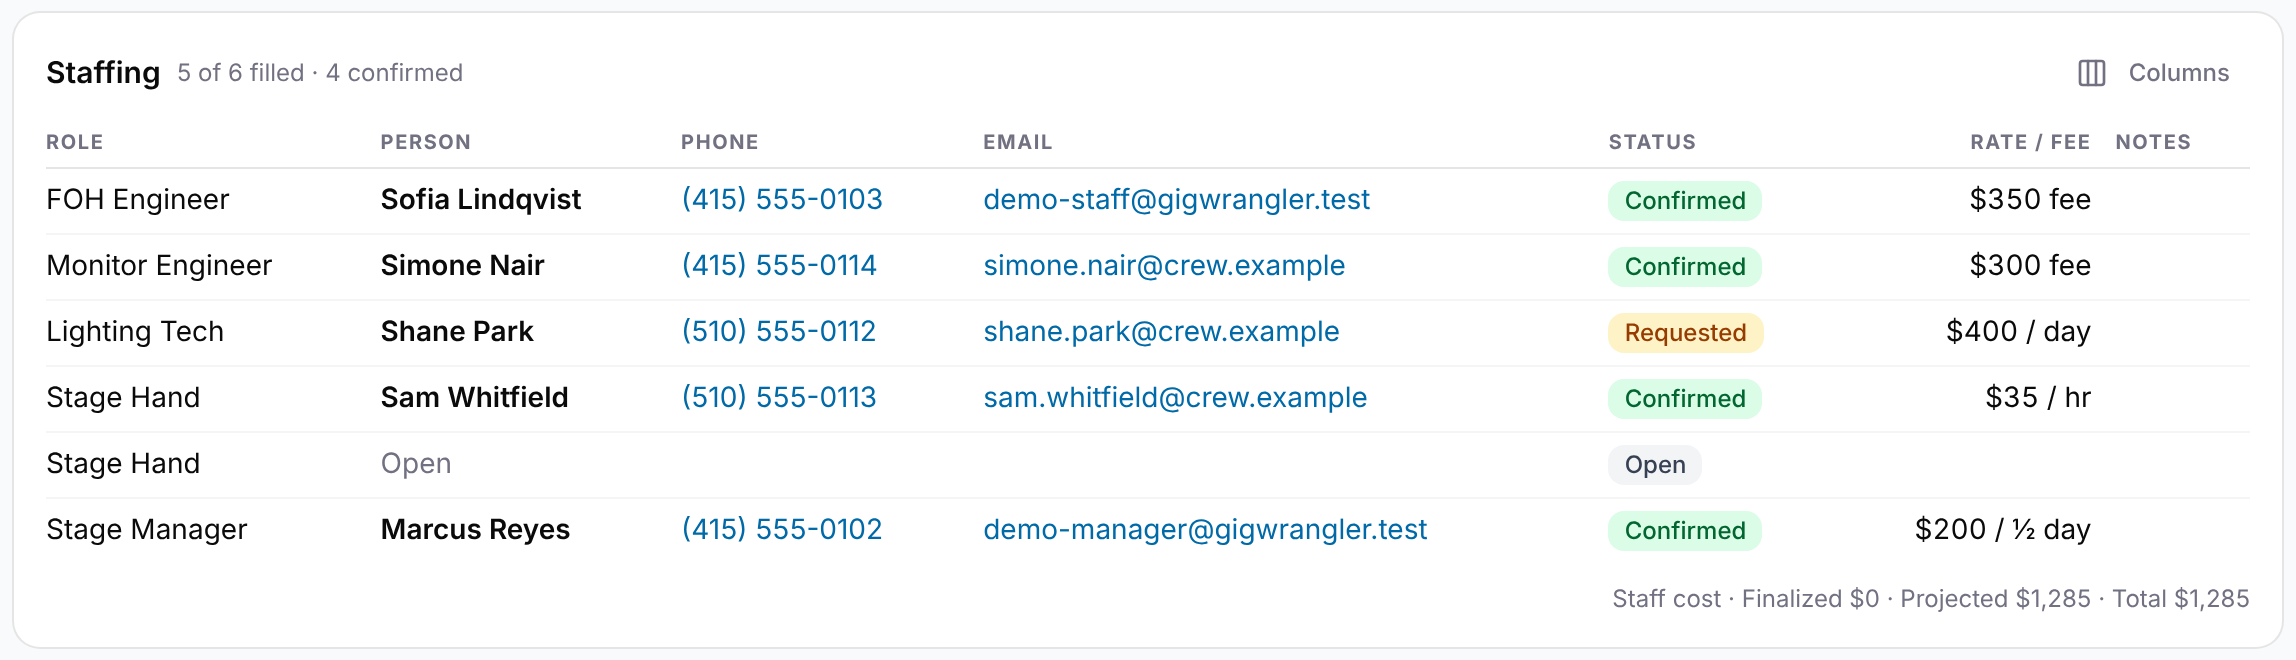
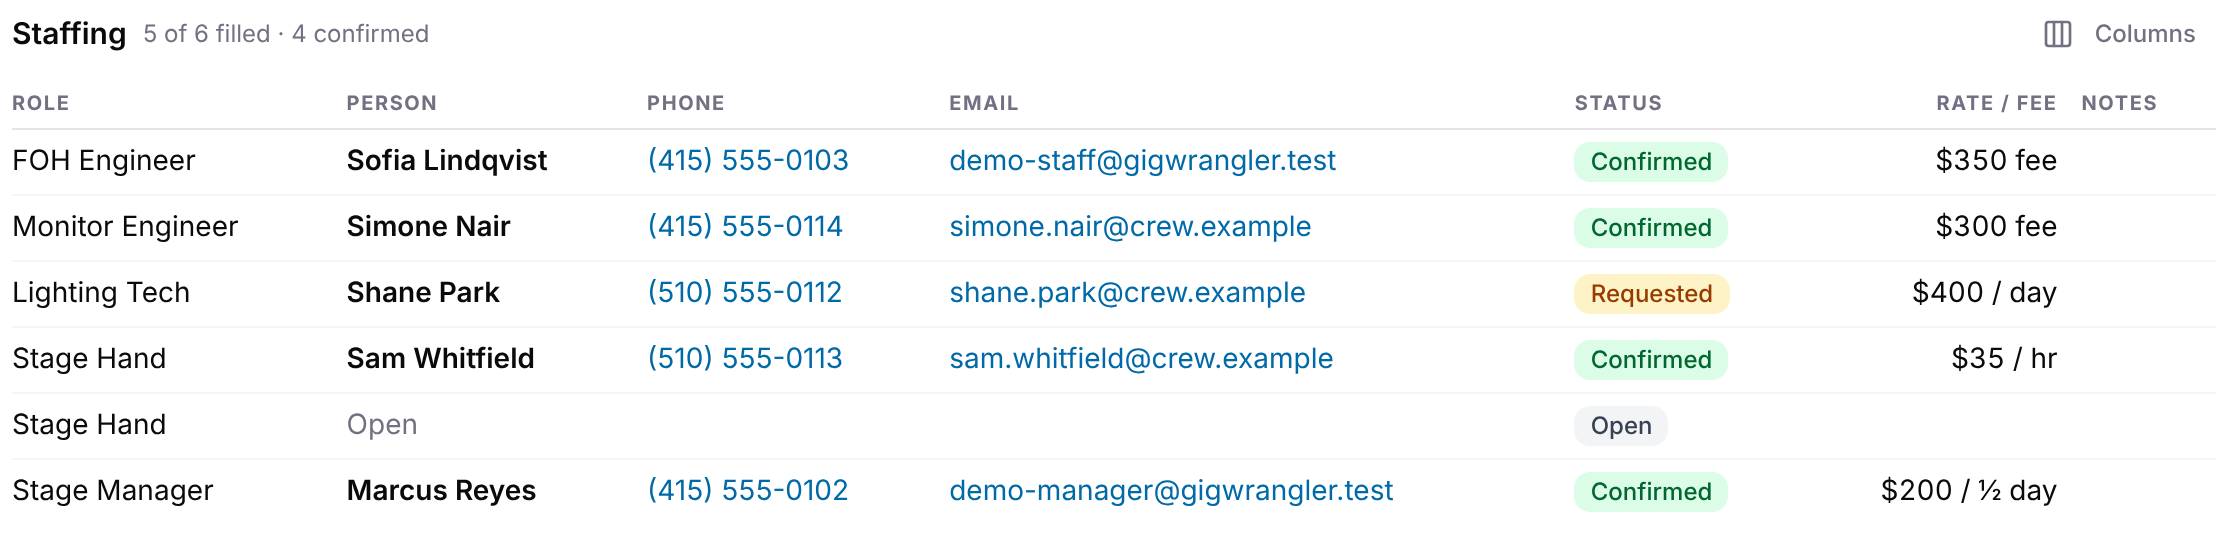
User guide: projected staff cost estimates (#213, PR #218)
- Staffing: Projected now estimates each booked rate from the gig (hours
  start to end to the quarter hour, gig days, one half day per day), with
  an estimate line per rate; finalizing still uses the units entered.
- A gig's money: Projected staff costs show the estimate, also used in
  staff booked, the print sheet and Gig Accounting.
- Retook both staffing shots; the Staffing card shot stops above its Staff
  cost line, which shows "$1,582.5" (#219).

Claude-Session: https://claude.ai/code/session_0118YwkJXDrQDMYNEuMW5wT3

diff --git a/website/docs/src/content/docs/gigs/staffing-and-participants.md b/website/docs/src/content/docs/gigs/staffing-and-participants.md
@@ -38,7 +38,7 @@ Each row in a slot is one person.
 
 A row with no person selected isn't saved. If you lower **Required:**, GigWrangler removes open rows first and keeps the people you've assigned.
 
-![The Staff Assignments card in edit mode: slots for FOH Engineer, Monitor Engineer, Lighting Tech, Stage Hand (two required, one open) and Stage Manager, each person with a status and pay: fees for FOH and monitors, and rates per day, per hour and per half day for the others, then the Total Staff Cost footer](../../../assets/screenshots/gigs/staffing-assignments.png)
+![The Staff Assignments card in edit mode: slots for FOH Engineer, Monitor Engineer, Lighting Tech, Stage Hand (two required, one open) and Stage Manager, each person with a status and pay: fees for FOH and monitors, and rates per day, per hour and per half day for the others, then the Total Staff Cost footer with an estimate line for each booked rate](../../../assets/screenshots/gigs/staffing-assignments.png)
 
 ## Finalizing completed work
 
@@ -55,17 +55,26 @@ Finalizing adds a money-out entry for the gig (category Contract labor, descript
 The footer shows **Total Staff Cost** in three parts:
 
 - **Finalized**: finalized assignments (rate times units, or the fee).
-- **Projected**: **Confirmed** and **Requested** assignments not yet finalized. A rate counts as one of its unit until it's finalized.
-<!-- TODO: #213 — projected rates count one unit (one hour for $35 / hr). Update once Cameron picks a fix. -->
+- **Projected**: **Confirmed** and **Requested** assignments not yet finalized. A fee counts in full. A rate is estimated from the gig (see below).
 - **Total**: the two added together.
+
+Under the totals, each booked rate shows how its estimate was reached, such as "Stage Hand · Sam Whitfield: est. 9.5 hr × $35.00 / hr = $332.50". GigWrangler estimates:
+
+- **/ hr:** the hours from the gig's start to its end, to the nearest quarter hour. If the gig has no end time, or no times at all, it counts 1 hour and says so: "1 hr (no end time)" or "1 hr (no times)".
+- **/ day:** the gig's days, in the gig's time zone. A gig that ends before 6 AM doesn't count the extra day.
+- **/ ½ day:** one half day per gig day.
+
+The estimate is only a projection. When you finalize, you enter the units actually worked, and the cost becomes the rate times that number.
 
 ## Viewing staffing
 
 Everyone in your organization who can open the gig sees a read-only **Staffing** card, headed with a summary such as "3 of 4 filled · 2 confirmed". Each row shows the role, the person (or **Open**), their phone and email, a status badge and any notes. Use **Columns** to hide the ones you don't need; the choice is remembered in this browser.
 
-The **Rate / Fee** column shows a rate with its unit, such as "$400 / day", and a fee as "$350 fee". A **Staff cost** line under the table gives the finalized, projected and total amounts. On the printed financials page, **Staff costs** shows how each rate's amount was reached, such as "3 days × $400 / day". **Rate / Fee** and the staff cost line are for Admins and Managers only. Staff and Viewers don't see pay.
+The **Rate / Fee** column shows a rate with its unit, such as "$400 / day", and a fee as "$350 fee". A **Staff cost** line under the table gives the finalized, projected and total amounts. On the printed financials page, **Staff costs** shows how each rate's amount was reached, such as "3 days × $400 / day".
+<!-- TODO: #219 — the print's Staff costs rows still count an unfinalized rate as one unit. --> **Rate / Fee** and the staff cost line are for Admins and Managers only. Staff and Viewers don't see pay.
 
-![The read-only Staffing card: "5 of 6 filled · 4 confirmed", each role with the person, phone, email, status and pay, such as $350 fee, $400 / day, $35 / hr and $200 / ½ day, an open Stage Hand place, and the Staff cost line](../../../assets/screenshots/gigs/staffing-view-card.png)
+![The read-only Staffing card: "5 of 6 filled · 4 confirmed", each role with the person, phone, email, status and pay, such as $350 fee, $400 / day, $35 / hr and $200 / ½ day, and an open Stage Hand place](../../../assets/screenshots/gigs/staffing-view-card.png)
+<!-- TODO: #219 — retake with the Staff cost line once it shows two decimals. -->
 
 ## Related
 

diff --git a/website/docs/src/content/docs/financials/gig-expenses.md b/website/docs/src/content/docs/financials/gig-expenses.md
@@ -69,7 +69,7 @@ The **…** menu on any row offers **Edit**, **Set stage** and **Remove**.
 
 ## Staff pay
 
-Staff booked on the gig show under **Projected staff costs** until you finalize them in the gig's staffing section (**Finalize Assignment** or **Finalize All**). A fee shows in full. A rate counts as one of its unit (one hour, day or half day) until it's finalized.
+Staff booked on the gig show under **Projected staff costs** until you finalize them in the gig's staffing section (**Finalize Assignment** or **Finalize All**). A fee shows in full. A rate shows an estimate from the gig's times, such as "est. 9.5 hr × $35.00 / hr = $332.50": hours from start to end for an hourly rate, the gig's days for a day rate, and one per gig day for a half-day rate. The same estimate is in **staff booked** at the top of the tab, on the printed sheet and in [Gig Accounting](/financials/gig-accounting/).
 
 - **Finalizing** adds the pay to money out as **Owed**, labelled "Labor: {role}" and marked **Staff**.
 - **A rate** asks how many of its unit were worked (hours, days or half days), and the amount is the rate times that number.
